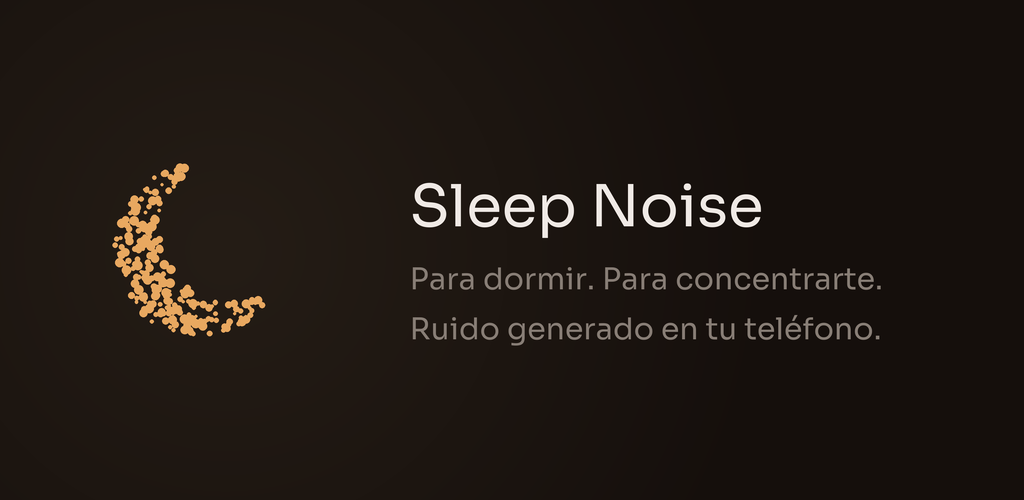
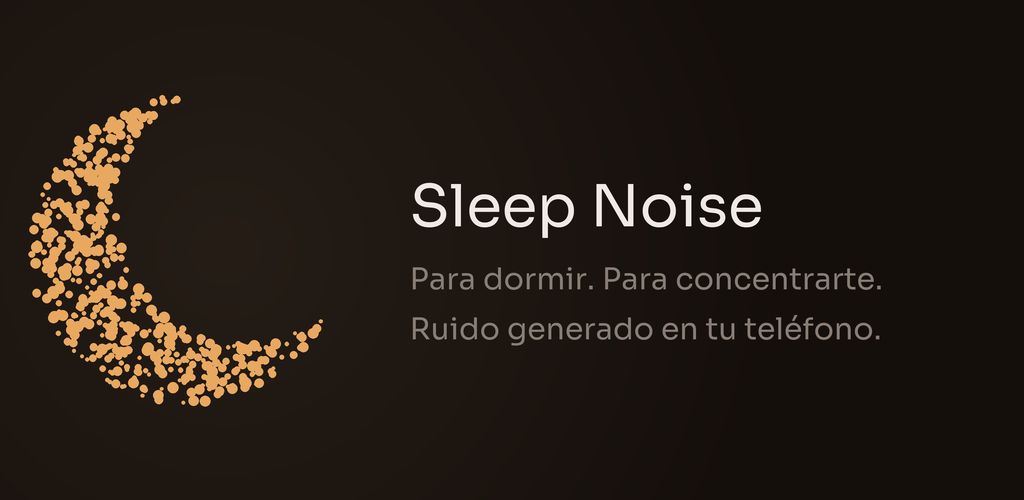
fix(playback): el cambio de sonido se oye al instante, y la notificación solo anuncia lo que la app sabe hacer
Dos fallos que salieron probando la app en un S25.

El cambio de sonido tardaba 52 segundos en oírse. Cronometrado por el
autor y medido en la sesión de medios: buffered position menos position
daban exactamente esos 52 segundos. El crossfade lo produce el generador,
que trabaja por delante de lo que suena, así que el cambio ya estaba
hecho — enterrado bajo casi un minuto de ruido del sonido anterior.

Se arregla haciendo lo que sugirió el autor: cambiar de sonido rehace la
fuente, igual que al abrir la app. Un seekTo no basta, vacía menos de lo
que parece. Y como ese arranque es ahora el retraso de un cambio, el
buffer para empezar a sonar baja a 200 ms. El generador no se reinicia
—vive fuera de la fuente—, así que lo primero que se oye es el crossfade
y no un salto. Medido: el audio encolado pasa de 52 s a 0,2 s.

Además, la sesión anunciaba veinte capacidades y solo cuatro eran
ciertas: saltar de pista, rebobinar, avanzar, buscar posición, valorar,
velocidad, aleatorio, repetición... Android dibuja botones a partir de
eso, y las flechas de la notificación no hacían nada al pulsarlas.
Ahora anuncia pausar, reproducir y parar.

Queda un límite que conviene tener escrito: los huecos de esas flechas
los dibuja la plantilla del sistema, no la app. Dejar de anunciar las
acciones las deja inertes y atenuadas, pero no las borra. Borrarlas
exigiría ocupar su sitio con acciones propias, y la decisión tomada es
que la notificación se quede mínima.
[…]

Changed region(s): [[0.0312, 0.18, 0.3125, 0.81]]

diff --git a/app/src/main/java/com/jjrapps/sleepnoise/playback/PlaybackService.kt b/app/src/main/java/com/jjrapps/sleepnoise/playback/PlaybackService.kt
@@ -83,6 +83,15 @@ class PlaybackService : MediaSessionService() {
      */
     private var finishOnPause = false
 
+    /**
+     * Cierto mientras se rehace la fuente por un cambio de sonido.
+     *
+     * Ese cambio hace que el reproductor deje de reproducir un instante, y sin esta
+     * bandera el oyente de estado lo tomaria por una pausa: congelaria el
+     * temporizador y volveria a arrancarlo, dando un tiron a la cuenta atras.
+     */
+    private var changingSound = false
+
     override fun onCreate() {
         super.onCreate()
         noise = StereoNoiseSource(currentType, sampleRate = SAMPLE_RATE)
@@ -173,6 +182,7 @@ class PlaybackService : MediaSessionService() {
 
     private val playerListener = object : Player.Listener {
         override fun onIsPlayingChanged(isPlaying: Boolean) {
+            if (changingSound) return
             if (isPlaying) {
                 finishOnPause = false
                 timer.resume()
@@ -219,10 +229,27 @@ class PlaybackService : MediaSessionService() {
         if (type == currentType) return
         currentType = type
         scope.launch { preferences.setLastSound(type) }
-        // The generator crossfades internally, so the player is never told anything
-        // changed — no new source, no discarded buffer, no gap. Only the title of the
-        // notification is replaced.
+
+        // Cambiar de sonido rehace la fuente, igual que al abrir la app.
+        //
+        // El crossfade lo produce el generador, que trabaja por delante de lo que
+        // suena, asi que el audio ya encolado es ruido del sonido anterior y hay que
+        // tirarlo entero: con el buffer por defecto se midieron 52 segundos, y el
+        // sonido cambiaba casi un minuto despues de tocar el boton. Un `seekTo` no
+        // basta —vacia menos de lo que parece—, asi que se reconstruye la fuente y se
+        // prepara de nuevo, que es exactamente lo que hace un arranque, y un arranque
+        // suena en 200 ms.
+        //
+        // El generador NO se reinicia: vive fuera de la fuente, asi que la transicion
+        // que acaba de empezar continua donde estaba y lo primero que se oye es el
+        // crossfade, no un salto.
+        val wasPlaying = exoPlayer.isPlaying
+        changingSound = true
         noise.crossfadeTo(type)
+        exoPlayer.setMediaSource(NoisePlayer.sourceFor(type, noise, this))
+        exoPlayer.prepare()
+        if (wasPlaying) exoPlayer.play()
+        changingSound = false
         player.replaceMediaItem(0, NoisePlayer.mediaItemFor(type, this))
         publishState()
     }
@@ -319,6 +346,38 @@ class PlaybackService : MediaSessionService() {
         session?.setCustomLayout(customLayout())
     }
 
+    /**
+     * Lo que esta app sabe hacer de verdad, y nada más.
+     *
+     * Por defecto una sesión de medios anuncia veinte capacidades —saltar de pista,
+     * rebobinar, avanzar, buscar una posición, cambiar la velocidad, aleatorio,
+     * repetición— y Android dibuja botones a partir de ellas. Aquí ninguna de esas
+     * tiene sentido: no hay lista de pistas que recorrer y el ruido no tiene
+     * principio ni final al que saltar. El resultado eran unas flechas en la
+     * notificación que no hacían absolutamente nada al pulsarlas, y una barra de
+     * posición que avanzaba sin significar nada.
+     *
+     * Anunciar solo lo que se cumple es lo correcto, y además deja la notificación
+     * con lo único que hace falta: pausar.
+     */
+    private fun availablePlayerCommands(): Player.Commands =
+        MediaSession.ConnectionResult.DEFAULT_PLAYER_COMMANDS.buildUpon()
+            .remove(Player.COMMAND_SEEK_TO_PREVIOUS)
+            .remove(Player.COMMAND_SEEK_TO_PREVIOUS_MEDIA_ITEM)
+            .remove(Player.COMMAND_SEEK_TO_NEXT)
+            .remove(Player.COMMAND_SEEK_TO_NEXT_MEDIA_ITEM)
+            .remove(Player.COMMAND_SEEK_BACK)
+            .remove(Player.COMMAND_SEEK_FORWARD)
+            .remove(Player.COMMAND_SEEK_IN_CURRENT_MEDIA_ITEM)
+            .remove(Player.COMMAND_SEEK_TO_MEDIA_ITEM)
+            .remove(Player.COMMAND_SEEK_TO_DEFAULT_POSITION)
+            .remove(Player.COMMAND_SET_SHUFFLE_MODE)
+            .remove(Player.COMMAND_SET_REPEAT_MODE)
+            .remove(Player.COMMAND_SET_SPEED_AND_PITCH)
+            .remove(Player.COMMAND_SET_MEDIA_ITEM)
+            .remove(Player.COMMAND_CHANGE_MEDIA_ITEMS)
+            .build()
+
     /** The extra button in the notification, only while there is a timer to extend. */
     private fun customLayout(): ImmutableList<CommandButton> {
         if (!timer.isSet) return ImmutableList.of()
@@ -338,14 +397,18 @@ class PlaybackService : MediaSessionService() {
             session: MediaSession,
             controller: MediaSession.ControllerInfo
         ): MediaSession.ConnectionResult {
-            // The app's own controller needs the custom commands; Media3 1.11 no
-            // longer hands session data to untrusted controllers by default, which is
-            // the behaviour we want for everyone else.
-            val available = MediaSession.ConnectionResult.DEFAULT_SESSION_AND_LIBRARY_COMMANDS
+            // Los comandos propios de la app; Media3 1.11 ya no entrega datos de
+            // sesión a controladores no confiables por defecto, que es justo el
+            // comportamiento que queremos para los demás.
+            val sessionCommands = MediaSession.ConnectionResult.DEFAULT_SESSION_COMMANDS
                 .buildUpon()
-            PlaybackCommands.all.forEach { available.add(it) }
+                // Valorar la «canción» tampoco significa nada aquí.
+                .remove(SessionCommand.COMMAND_CODE_SESSION_SET_RATING)
+            PlaybackCommands.all.forEach { sessionCommands.add(it) }
+
             return MediaSession.ConnectionResult.AcceptedResultBuilder(session)
-                .setAvailableSessionCommands(available.build())
+                .setAvailableSessionCommands(sessionCommands.build())
+                .setAvailablePlayerCommands(availablePlayerCommands())
                 .setCustomLayout(customLayout())
                 .build()
         }

diff --git a/app/src/main/java/com/jjrapps/sleepnoise/playback/NoisePlayer.kt b/app/src/main/java/com/jjrapps/sleepnoise/playback/NoisePlayer.kt
@@ -10,6 +10,7 @@ import androidx.media3.common.MediaItem
 import androidx.media3.common.MediaMetadata
 import androidx.media3.common.Player
 import androidx.media3.common.util.UnstableApi
+import androidx.media3.exoplayer.DefaultLoadControl
 import androidx.media3.exoplayer.ExoPlayer
 import androidx.media3.exoplayer.source.ProgressiveMediaSource
 import com.jjrapps.sleepnoise.R
@@ -24,8 +25,38 @@ import com.jjrapps.sleepnoise.domain.model.NoiseType
 @UnstableApi
 object NoisePlayer {
 
+    /**
+     * Cuánto audio se produce por adelantado.
+     *
+     * Por defecto ExoPlayer llena decenas de segundos, y aquí eso es un problema
+     * concreto: el crossfade entre sonidos lo hace el generador, que trabaja por
+     * delante de lo que suena, así que **el buffer es exactamente el retraso del
+     * cambio de sonido**. Medido en un dispositivo real: 52 segundos de audio
+     * encolado, y un cambio de sonido que se oía casi un minuto después de tocarlo.
+     *
+     * Un segundo es de sobra. La fuente es un generador local que produce mucho más
+     * rápido que el tiempo real, así que no hay riesgo de quedarse sin datos.
+     *
+     * Y no toca la batería: el ahorro viene del buffer del `AudioTrack` —el
+     * `FLAG_DEEP_BUFFER` que se ve en `dumpsys audio`—, que es otra cosa y sigue
+     * intacto. Este solo decide cuánto se genera por adelantado.
+     */
+    private fun loadControl() = DefaultLoadControl.Builder()
+        .setBufferDurationsMs(
+            /* minBufferMs = */ 1_000,
+            /* maxBufferMs = */ 1_500,
+            // 200 ms para empezar a sonar. Esto es lo que tarda un cambio de sonido
+            // en oirse, porque el cambio reconstruye la fuente: cuanto menos haga
+            // falta para arrancar, mas inmediato se siente.
+            /* bufferForPlaybackMs = */ 200,
+            /* bufferForPlaybackAfterRebufferMs = */ 500
+        )
+        .setBackBuffer(0, false)
+        .build()
+
     fun create(context: Context): ExoPlayer =
         ExoPlayer.Builder(context)
+            .setLoadControl(loadControl())
             .setAudioAttributes(
                 AudioAttributes.Builder()
                     // USAGE_MEDIA so the noise rides the media volume the user

diff --git a/app/src/main/java/com/jjrapps/sleepnoise/audio/NoiseDataSource.kt b/app/src/main/java/com/jjrapps/sleepnoise/audio/NoiseDataSource.kt
@@ -41,7 +41,11 @@ class NoiseDataSource(
         transferInitializing(dataSpec)
         uri = dataSpec.uri
         header = WavHeader.create()
-        headerRemaining = header.size
+        // La cabecera solo va al principio. Si el reproductor pide datos desde mas
+        // adelante —lo que ocurre cuando se descarta el buffer para que un cambio de
+        // sonido se oiga ya— hay que servir PCM, no otra cabecera en mitad del
+        // stream: el extractor la leeria como si fueran muestras.
+        headerRemaining = (WavHeader.SIZE - dataSpec.position).coerceIn(0L, WavHeader.SIZE.toLong()).toInt()
         // The generator is NOT reset here: see the class comment. A repeat has to be
         // inaudible, and resetting is exactly what would make it audible.
         opened = true

diff --git a/scripts/generar-iconos.py b/scripts/generar-iconos.py
@@ -590,20 +590,60 @@ def _paint_background(image, scale, cx_ratio=0.5, cy_ratio=0.42, radius_ratio=0.
 
 
 def write_play_icon(path, size=512):
-    """El PNG de 512x512 de la ficha. Esquinas cuadradas: la mascara la pone Play."""
+    """El PNG de 512x512 de la ficha. Esquinas cuadradas: la mascara la pone Play.
+
+    Ojo con la escala: el lienzo del icono adaptativo son 108 dp de los que el
+    sistema solo ensena los 72 centrales. Este PNG no pasa por esa mascara, asi que
+    dibujarlo a 108 dp lo deja un tercio mas pequeno de lo que la gente ve en su
+    lanzador, con un marco de fondo vacio alrededor. Se dibuja el recorte —los 72 dp
+    centrales llenando los 512 px— para que el icono de la tienda y el del telefono
+    sean el mismo icono.
+    """
     accent = _hex(ACCENT)
+    # Un punto intermedio entre los 108 dp del lienzo y los 72 que ensena la mascara.
+    # A 108 el icono sale un tercio mas pequeno de lo que la gente ve en su lanzador;
+    # a 72 exactos el creciente roza el borde izquierdo, y Play muestra este PNG con
+    # esquinas redondeadas pero sin recortar los lados.
+    visible = 84.0
 
     def paint(image, draw, scale):
         _paint_background(image, scale)
-        unit = size * scale / CANVAS          # de dp del lienzo a pixeles
+        unit = size * scale / visible
+        offset = -(CANVAS - visible) / 2 * unit      # centrar los 72 dp de en medio
         for x, y, r in GRAIN:
             draw.ellipse(
-                [(x - r) * unit, (y - r) * unit, (x + r) * unit, (y + r) * unit],
+                [offset + (x - r) * unit, offset + (y - r) * unit,
+                 offset + (x + r) * unit, offset + (y + r) * unit],
                 fill=accent,
             )
 
     _rasterize(size, size, paint).save(path)
     return path
+
+
+def _dense_grain(seed=13, target=520):
+    """Grano mas denso y mas fino, para el grafico de cabecera.
+
+    Los 230 puntos del icono estan calibrados para verse a 48 dp. Ampliados a la
+    altura de una cabecera se separan y el creciente se lee como una salpicadura en
+    vez de como una forma.
+    """
+    rng = Rng(seed)
+    m = MOON
+    dots = []
+    for _ in range(20000):
+        x = m["cx"] - m["R"] + rng.next() * 2 * m["R"]
+        y = m["cy"] - m["R"] + rng.next() * 2 * m["R"]
+        if not inside_crescent(x, y):
+            continue
+        edge = min(m["R"] - math.hypot(x - m["cx"], y - m["cy"]),
+                   math.hypot(x - m["c2x"], y - m["c2y"]) - m["r2"])
+        if edge < 0.5 and rng.next() < 0.55:
+            continue
+        dots.append((x, y, 0.35 + rng.next() * 0.75))
+        if len(dots) >= target:
+            break
+    return dots
 
 
 def write_feature_graphic(path, width=1024, height=500):
@@ -617,11 +657,12 @@ def write_feature_graphic(path, width=1024, height=500):
 
     def paint(image, draw, scale):
         _paint_background(image, scale, cx_ratio=0.22, cy_ratio=0.5, radius_ratio=0.55)
-        # El creciente a la izquierda, al mismo tamano relativo que en el icono.
-        unit = height * scale * 0.62 / CANVAS
-        ox = width * scale * 0.20 - 54 * unit
+        # El creciente a la izquierda. Se mide contra los 72 dp visibles y no contra
+        # los 108 del lienzo, por lo mismo que en el icono de la tienda.
+        unit = height * scale * 0.74 / 72.0
+        ox = width * scale * 0.19 - 54 * unit
         oy = height * scale * 0.5 - 54 * unit
-        for x, y, r in GRAIN:
+        for x, y, r in _dense_grain():
             draw.ellipse([ox + (x - r) * unit, oy + (y - r) * unit,
                           ox + (x + r) * unit, oy + (y + r) * unit], fill=accent)
         try:

diff --git a/docs/especificacion-release-1.0.md b/docs/especificacion-release-1.0.md
@@ -293,8 +293,18 @@ Lo que **no** hay es reanudación después de que el usuario pause: ahí la sesi
 sesión de medios que reanudar. Es la consecuencia deliberada de RF-05, y el camino de vuelta es
 abrir la app, que es de todas formas lo que alguien hace cuando quiere volver a dormirse.
 
-**RF-20 · Botones de auriculares.** Play/pausa responde al botón central de los auriculares. Las
-pistas siguiente/anterior no hacen nada (no hay lista).
+**RF-20 · Botones de auriculares y del sistema.** Play/pausa responde al botón central de los
+auriculares.
+
+La sesión **anuncia solo lo que la app sabe hacer**: pausar, reproducir y parar. Nada de saltar de
+pista, rebobinar, avanzar, buscar una posición, cambiar la velocidad, aleatorio o repetición. Por
+defecto una sesión de medios anuncia las veinte, y Android dibuja botones a partir de ellas: el
+resultado eran unas flechas en la notificación que no hacían absolutamente nada al pulsarlas.
+
+**Límite conocido:** los huecos de esas flechas los dibuja la plantilla del sistema, no la app. Dejar
+de anunciar las acciones las deja inertes y atenuadas, pero no las borra de la pantalla. Para que
+desaparezcan habría que ocupar su sitio con acciones propias, que es una decisión de producto tomada
+en contra: la notificación se queda mínima.
 
 ### 5.4 Ajustes y meta
 
